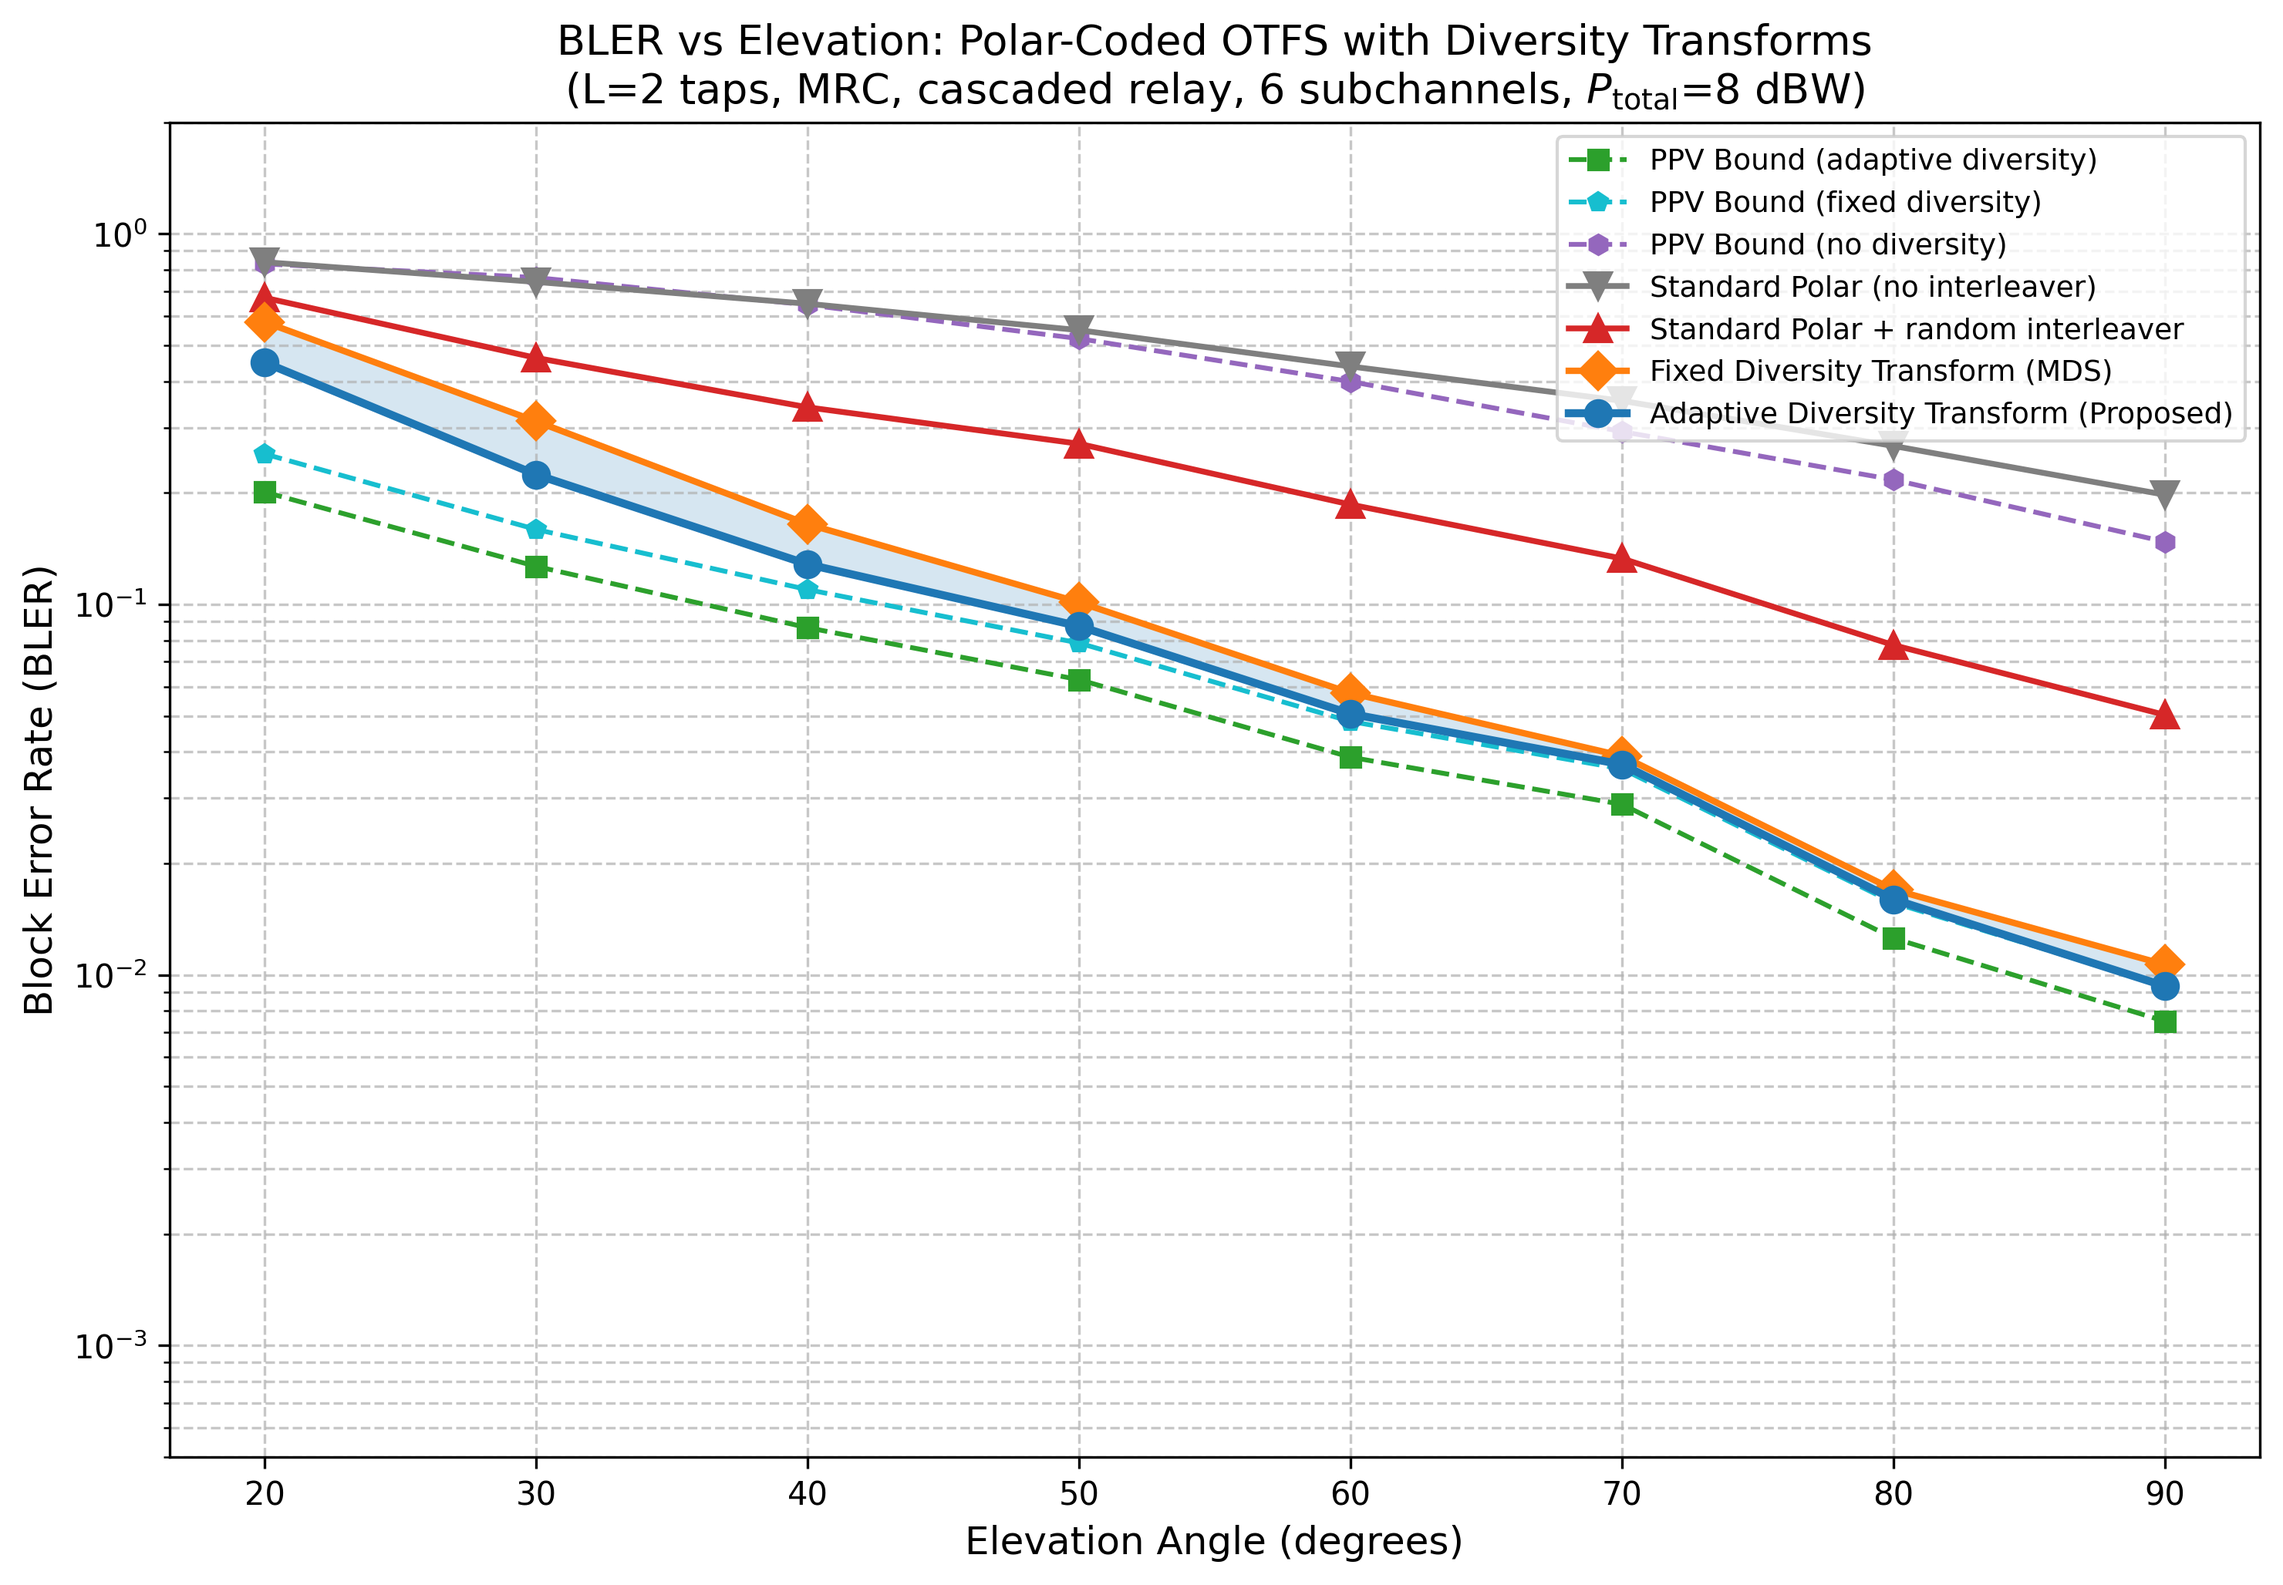
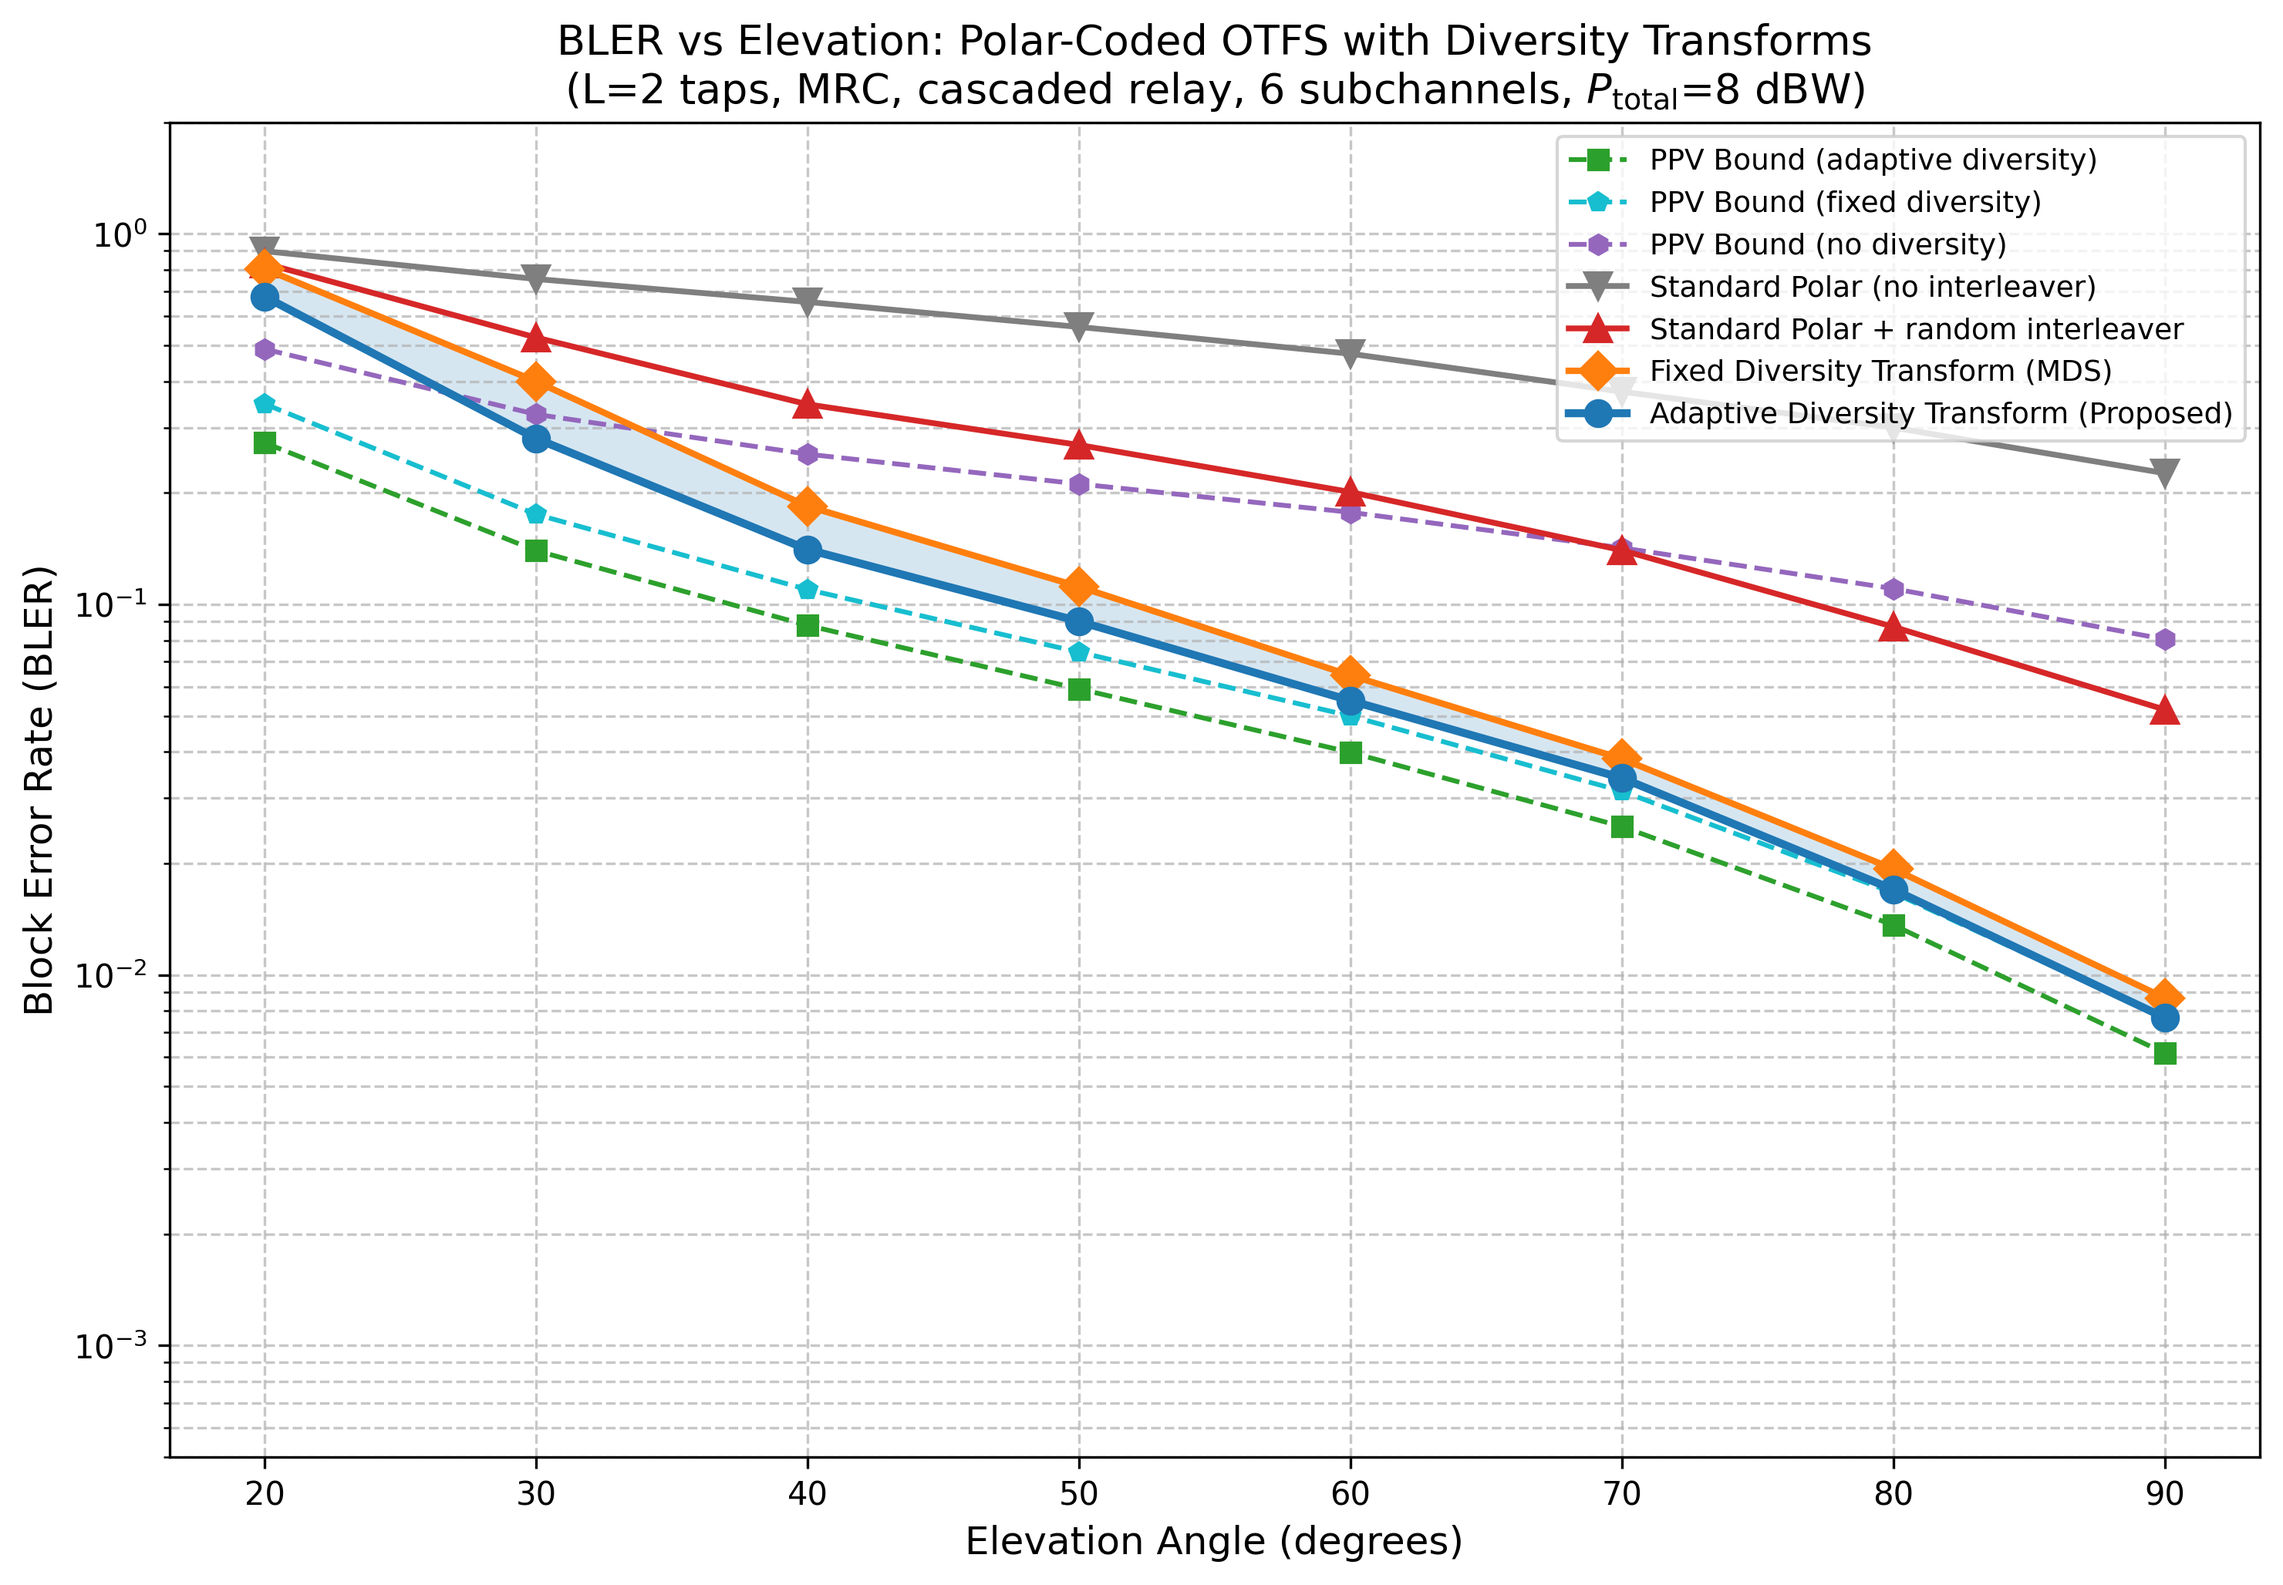
Fix PPV normal approximation and add atmospheric losses to link budget
- Fix finite_blocklength_bler: add missing log₂(n)/(2√n) correction term
  from Eq. 41 of the paper
- Fix finite_blocklength_bler_vec: remove spurious 0.5 factors on capacity
  C and dispersion V, add same log correction term
- Add ITU-R atmospheric loss models (P.676 gaseous, P.840 cloud/fog,
  P.618 rain) to access link budget in simulate_bler_comparison.py
- Refactor bler_no_diversity to use per-subchannel conditional BLER at
  blocklength N/n_s with k_c threshold, replacing harmonic-mean model
- Regenerate all plots and CSV results with 3000 MC trials

diff --git a/simulate_bler_comparison.py b/simulate_bler_comparison.py
@@ -29,7 +29,8 @@ import csv
 from typing import Dict, Tuple
 
 from channel import (
-    SNRCalculator, SPEED_OF_LIGHT, linear_to_db, db_to_linear
+    SNRCalculator, SPEED_OF_LIGHT, linear_to_db, db_to_linear,
+    LargeScalePathLoss, AtmosphericParams, EnvironmentParams,
 )
 from fbl_analysis import (
     finite_blocklength_bler, conditional_bler,
@@ -85,6 +86,20 @@ _N0_UE_DBW = 10.0 * np.log10(_kB * _T0 * _BW_HZ) + _NF_UE_DB
 _FEEDER_GAIN_DB = _G_TX_GW_DBI + _G_RX_SAT_DBI - _FSPL_FEEDER_DB - _N0_SAT_DBW
 # Access link gain (excluding FSPL): γ_SU(dB) = P_SAT(dBW) + _ACCESS_GAIN_DB - FSPL_access
 _ACCESS_GAIN_EXCL_FSPL_DB = _G_TX_SAT_DBI + _G_RX_UE_DBI - _N0_UE_DBW
+
+# Atmospheric / environment models (ITU-R P.676, P.840, P.618; 3GPP NTN)
+_ATM_PARAMS = AtmosphericParams(
+    rho_wv=7.5,           # water-vapour density [g/m³]
+    H_gas_m=6000.0,       # equivalent gaseous thickness [m]
+    LWC=0.05,             # liquid-water content [g/m³]
+    H_cf_m=1000.0,        # cloud/fog layer thickness [m]
+    rain_rate_mmh=2.0,    # light rain [mm/h]
+    H_rain_m=3000.0,      # rain height [m]
+    kappa=0.0101,         # ITU rain atten. coeff (S-band)
+    beta=1.276,           # ITU rain atten. exponent
+)
+_ENV_PARAMS = EnvironmentParams(env_type="suburban")
+_PATH_LOSS_MODEL = LargeScalePathLoss(_ATM_PARAMS, _ENV_PARAMS)
 
 # Multipath TDL-D profile: L=2 taps, powers decay 3 dB per tap
 _L_TAPS = 2
@@ -143,11 +158,23 @@ def _access_fspl_dB(slant_range_m):
     return 20.0 * np.log10(4.0 * np.pi * slant_range_m / _LAMBDA_ACCESS)
 
 
-def _power_to_link_snrs(P_total_dBW, access_fspl_dB):
+def _atmospheric_loss_dB(elevation_deg):
+    """
+    Aggregate atmospheric attenuation for the access link (Eq. 7).
+
+    Includes gaseous absorption (ITU-R P.676), cloud/fog (ITU-R P.840),
+    and rain (ITU-R P.618) along the slant path at the given elevation.
+    """
+    epsilon_rad = np.radians(elevation_deg)
+    return _PATH_LOSS_MODEL.atmospheric_loss_dB(_F_ACCESS_HZ, epsilon_rad)
+
+
+def _power_to_link_snrs(P_total_dBW, access_fspl_dB, atm_loss_dB=0.0):
     """
     Convert total transmit power to per-link SNRs via link budgets.
 
     Equal power split: P_SAT = α · P_total, P_GW = (1-α) · P_total.
+    Access link loss includes FSPL + atmospheric attenuation (Eq. 6).
 
     Returns (gamma_gs_linear, gamma_su_linear).
     """
@@ -156,7 +183,8 @@ def _power_to_link_snrs(P_total_dBW, access_fspl_dB):
     P_GW_lin = (1.0 - _ALPHA_POWER) * P_total_lin
 
     gamma_gs_dB = linear_to_db(P_GW_lin) + _FEEDER_GAIN_DB
-    gamma_su_dB = linear_to_db(P_SAT_lin) + _ACCESS_GAIN_EXCL_FSPL_DB - access_fspl_dB
+    gamma_su_dB = (linear_to_db(P_SAT_lin) + _ACCESS_GAIN_EXCL_FSPL_DB
+                   - access_fspl_dB - atm_loss_dB)
 
     return db_to_linear(gamma_gs_dB), db_to_linear(gamma_su_dB)
 
@@ -369,7 +397,7 @@ def _mc_trial_one_snr(gamma_avg_SU, gamma_gs, N, K, n_subchannels,
             best_block_weights = _block_weights_pool[i].copy()
 
     # ---- Semi-analytical FBL bounds (Section III) ----
-    ppv_no_div = bler_no_diversity(gamma_e2e, N, K)
+    ppv_no_div = bler_no_diversity(gamma_e2e, erased_mask, k_c, N, K)
     ppv_fix_div = bler_fixed_diversity(gamma_e2e, erased_mask, k_c, N, K)
 
     # PPV adaptive: Q-metric scaling (Algorithm 2)
@@ -474,6 +502,7 @@ def simulate_bler_vs_power(N: int = 256, K: int = 128,
     # Access link geometry at reference elevation
     ref_slant = _slant_range_m(ref_elevation_deg)
     ref_fspl = _access_fspl_dB(ref_slant)
+    ref_atm_loss = _atmospheric_loss_dB(ref_elevation_deg)
 
     K_rice = 2.0                  # Rician K-factor (3 dB, NTN suburban)
     erasure_threshold = db_to_linear(-3.0)
@@ -492,6 +521,8 @@ def simulate_bler_vs_power(N: int = 256, K: int = 128,
     print(f"  Access link: S-band {_F_ACCESS_HZ/1e9:.0f} GHz, "
           f"G_tx={_G_TX_SAT_DBI:.0f} dBi, G_rx={_G_RX_UE_DBI:.0f} dBi, "
           f"elev={ref_elevation_deg:.0f}deg (d={ref_slant/1e3:.0f} km)")
+    print(f"  Atmospheric loss (Eq. 7): {ref_atm_loss:.2f} dB "
+          f"(gas+cloud/fog+rain at {ref_elevation_deg:.0f}deg)")
     print(f"  Multipath: L={_L_TAPS} taps, Rician K={10*np.log10(K_rice):.1f} dB")
     print(f"  Blockage: p_block={p_block_sub:.2f} per-subchannel, "
           f"loss={shadow_loss_dB} dB")
@@ -504,7 +535,7 @@ def simulate_bler_vs_power(N: int = 256, K: int = 128,
     results['P_total_dBW'] = power_dBW_arr
 
     for idx, p_dBW in enumerate(power_dBW_arr):
-        gamma_gs, gamma_su = _power_to_link_snrs(p_dBW, ref_fspl)
+        gamma_gs, gamma_su = _power_to_link_snrs(p_dBW, ref_fspl, ref_atm_loss)
 
         ppv_no_acc = 0.0
         ppv_fix_acc = 0.0
@@ -578,6 +609,8 @@ def simulate_bler_vs_elevation(N: int = 256, K: int = 128,
     print(f"\nComputing BLER vs Elevation (7 curves, end-to-end MC simulation)...")
     print(f"  P_total = {P_total_dBW:.1f} dBW ({10**(P_total_dBW/10):.2f} W), "
           f"alpha={_ALPHA_POWER}")
+    print(f"  Atmospheric loss (Eq. 7): gas + cloud/fog + rain, "
+          f"elev-dependent slant path")
     print(f"  Multipath: L={_L_TAPS} taps")
     print(f"  Rician K: {10*np.log10(K_rice_min):.1f} dB (low elev) to "
           f"{10*np.log10(K_rice_max):.1f} dB (high elev)")
@@ -592,10 +625,12 @@ def simulate_bler_vs_elevation(N: int = 256, K: int = 128,
     results['P_total_dBW'] = P_total_dBW
 
     for idx, eps_deg in enumerate(elevations):
-        # Elevation-dependent access link geometry
+        # Elevation-dependent access link geometry + atmospheric loss (Eq. 6-7)
         d_access = _slant_range_m(eps_deg)
         fspl_access = _access_fspl_dB(d_access)
-        gamma_gs, gamma_su = _power_to_link_snrs(P_total_dBW, fspl_access)
+        atm_loss = _atmospheric_loss_dB(eps_deg)
+        gamma_gs, gamma_su = _power_to_link_snrs(P_total_dBW, fspl_access,
+                                                   atm_loss)
         gamma_su_dB = linear_to_db(gamma_su)
 
         elev_frac = (eps_deg - elevation_range[0]) / (elevation_range[1] - elevation_range[0])
@@ -630,6 +665,7 @@ def simulate_bler_vs_elevation(N: int = 256, K: int = 128,
         results['adaptive'][idx] = err_counts[3] / n_mc
 
         print(f"  Elev = {eps_deg:5.1f}deg (d={d_access/1e3:.0f}km, "
+              f"atm={atm_loss:.1f}dB, "
               f"gamma_SU={gamma_su_dB:.1f}dB, K={10*np.log10(K_rice):.1f}dB, "
               f"p_blk={p_block_sub:.2f}): "
               f"NoIntlv = {results['no_interleaver'][idx]:.4e}, "
@@ -876,6 +912,11 @@ def main():
           f"NF={_NF_UE_DB:.0f} dB")
     print(f"    Power split: alpha={_ALPHA_POWER} (equal)")
     print(f"    BW={_BW_HZ/1e6:.0f} MHz, orbit={_H_ORB_M/1e3:.0f} km")
+    print(f"  Atmospheric model (Eq. 6-7):")
+    print(f"    Gaseous: ITU-R P.676 (rho_wv={_ATM_PARAMS.rho_wv} g/m3)")
+    print(f"    Cloud/fog: ITU-R P.840 (LWC={_ATM_PARAMS.LWC} g/m3)")
+    print(f"    Rain: ITU-R P.618 (rate={_ATM_PARAMS.rain_rate_mmh} mm/h)")
+    print(f"    Environment: {_ENV_PARAMS.env_type}")
 
     # BLER vs Total Transmit Power
     print("\n" + "-" * 60)

diff --git a/fbl_analysis.py b/fbl_analysis.py
@@ -145,7 +145,9 @@ def finite_blocklength_bler(snr_linear: float, N: int, K: int) -> float:
     if V <= 0:
         return 1.0 if R > C else 0.0
     if C > R:
-        arg = (C - R) * np.sqrt(N / V)
+        # PPV normal approximation with log correction — Eq. (41)
+        arg = (np.sqrt(N) * (C - R)
+               + 0.5 * np.log2(N) / np.sqrt(N)) / np.sqrt(V)
         bler = float(q_function(arg))
     else:
         bler = 1.0
@@ -162,11 +164,13 @@ def finite_blocklength_bler_vec(snr_linear, N, K):
     N = np.asarray(N, dtype=float)
     K = np.asarray(K, dtype=float)
     R = K / N
-    C = 0.5 * np.log2(np.maximum(1 + snr_linear, 1e-30))
-    V = 0.5 * (1 - 1 / (1 + snr_linear) ** 2) * (np.log2(np.e)) ** 2
+    C = np.log2(np.maximum(1 + snr_linear, 1e-30))
+    V = (1 - 1 / (1 + snr_linear) ** 2) * (np.log2(np.e)) ** 2
+    # PPV normal approximation with log correction — Eq. (41)
     arg = np.where(
         (V > 0) & (C > R),
-        (C - R) * np.sqrt(N / np.maximum(V, 1e-30)),
+        (np.sqrt(N) * (C - R) + 0.5 * np.log2(N) / np.sqrt(N))
+        / np.sqrt(np.maximum(V, 1e-30)),
         0.0,
     )
     bler = np.where(
@@ -327,23 +331,31 @@ class FiniteBlocklengthBLER:
 #  Semi-analytical BLER with diversity transforms (Section III)
 # ============================================================================
 
-def bler_no_diversity(gamma_per_sub: np.ndarray, N: int, K: int) -> float:
+def bler_no_diversity(gamma_per_sub: np.ndarray, erased_mask: np.ndarray,
+                      k_c: int, N: int, K: int) -> float:
     """
     Semi-analytical BLER without diversity transform — Section III.
 
-    Two complementary models capture different regimes:
-    - Harmonic-mean model (N): the harmonic mean is dominated by the weakest
-      subchannel, capturing the vulnerability of no-diversity schemes to deep
-      fades and blockage. At low-to-moderate SNR, a single blocked or deeply
-      faded subchannel drags the harmonic mean below the capacity threshold.
-    - Per-subchannel average (N/n_s): at high SNR, each blocked subchannel
-      contributes a fractional BLER proportional to its share of coded bits,
-      providing a natural floor above PPV_fix.
+    Uses the same conditional_bler function as the diversity bounds, but
+    applied per-subchannel at blocklength N_sub = N/n_s. Without a diversity
+    transform, each subchannel independently carries N_sub coded bits with
+    no erasure recovery. The overall BLER is the average of per-subchannel
+    conditional BLERs:
 
-    The maximum of the two models is used.
+      epsilon_no = (1/n_s) * sum_j conditional_bler(gamma_j, N_sub, R)
+
+    Blocked subchannels (rate > subchannel capacity) contribute epsilon~1,
+    creating a natural floor proportional to the blockage probability.
+    At moderate SNR, faded subchannels also contribute non-trivially.
+
+    The k_c threshold from the diversity transform is applied as a lower
+    bound: if even the MDS code cannot recover (<k_c surviving), a code
+    without diversity also fails.
 
     Args:
         gamma_per_sub: (n_s,) per-subchannel SNR (linear)
+        erased_mask: (n_s,) bool, True = erased
+        k_c: MDS code dimension (minimum surviving subchannels needed)
         N: polar code block length
         K: information bits
 
@@ -351,24 +363,21 @@ def bler_no_diversity(gamma_per_sub: np.ndarray, N: int, K: int) -> float:
         BLER at this channel realization.
     """
     n_s = len(gamma_per_sub)
-    N_sub = N // n_s          # coded bits per subchannel (~43 for N=256, n_s=6)
-    R = K / N                 # coding rate
+    N_sub = N // n_s
+    R = K / N
 
-    # Model A: harmonic mean SNR with full blocklength N
-    # Harmonic mean = n_s / Σ(1/γ_j) — sensitive to weak subchannels.
-    # Without diversity protection, the weakest subchannel limits performance.
-    harm_inv = float(np.sum(1.0 / np.maximum(gamma_per_sub, 1e-10)))
-    gamma_harm = n_s / harm_inv
-    p_harm = conditional_bler(gamma_harm, N, R)
+    # k_c threshold: if even diversity code fails, no-diversity also fails
+    surviving = gamma_per_sub[~erased_mask]
+    if len(surviving) < k_c:
+        return 1.0
 
-    # Model B: per-subchannel average with short blocklength N_sub
-    # Captures high-SNR regime where blockage causes fractional BLER
+    # Per-subchannel conditional BLER at blocklength N_sub
     p_avg = 0.0
     for j in range(n_s):
         p_avg += conditional_bler(gamma_per_sub[j], N_sub, R)
     p_avg /= n_s
 
-    return max(p_harm, p_avg)
+    return p_avg
 
 
 def bler_fixed_diversity(gamma_per_sub: np.ndarray, erased_mask: np.ndarray,
